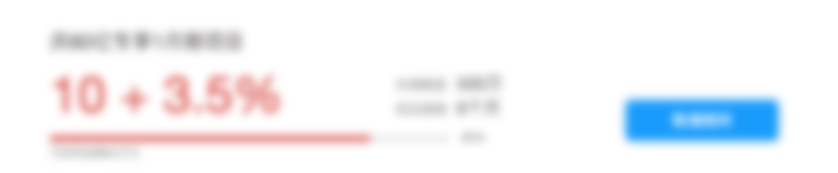
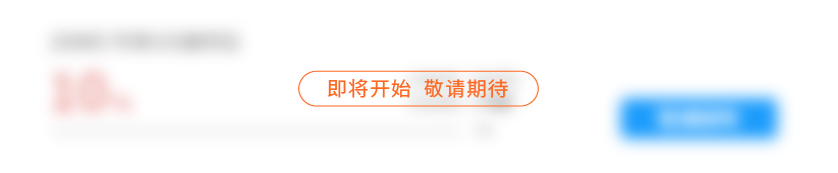
提交60亿活动

diff --git a/static/styles/mobile_activity/app_six_billion.css b/static/styles/mobile_activity/app_six_billion.css
@@ -1,1 +1,1 @@
-.clear{clear:both}.body_wrap{width:100%;font-size:0;overflow:hidden;max-height:9999rem}.body_wrap .section{position:relative;width:100%;display:inline-block}.body_wrap .banner_img{width:100%;display:block}.body_wrap .section_1 .sum_num{width:100%;text-align:center;position:absolute;top:74.5%;left:0;z-index:2;color:#fff;font-size:1.5rem;line-height:1.875rem}@media screen and (max-device-width: 370px){.body_wrap .section_1 .sum_num{top:73%;font-size:1.35rem}}@media screen and (max-width: 370px){.body_wrap .section_1 .sum_num{font-size:1.35rem;top:73%}}.body_wrap .section_2{background:url("/static/imgs/mobile_activity/app_six_billion/banner_bg_2.jpg") no-repeat center center;background-size:100% 100%}.body_wrap .section_2 .banner_img{width:100%;display:block;padding:1rem 0 0.375rem}.body_wrap .section_2 .act_time{width:100%;text-align:center;color:#fff;font-size:0.6rem;line-height:1rem;padding-top:0.45rem}.body_wrap .section_2 .brand_wrap{width:100%;padding:0 2.5%;display:inline-block}.body_wrap .section_2 .brand_wrap .brand_box{background:#fff;display:block;float:left;width:31%;border-radius:0.375rem;position:relative;box-shadow:0 0.125rem 0.375rem #666;margin-top:0.75rem}.body_wrap .section_2 .brand_wrap .brand_box .title_text{width:90%;color:#ffb03d;font-size:0.375rem;line-height:0.6rem;padding:0.9rem 0 0.2rem;margin:0 auto;display:block;text-align:center;border-bottom:1px #ffd69a solid}@media screen and (max-device-width: 370px){.body_wrap .section_2 .brand_wrap .brand_box .title_text{padding:0.9rem 5% 0.375rem}}@media screen and (max-width: 370px){.body_wrap .section_2 .brand_wrap .brand_box .title_text{padding:0.9rem 5% 0.375rem}}.body_wrap .section_2 .brand_wrap .brand_box .send_text{position:absolute;left:10%;top:2.15rem;font-size:0.375rem;line-height:0.55rem;color:#ffa41d}.body_wrap .section_2 .brand_wrap .brand_box .add_num{padding-top:0.55rem;width:100%;text-align:center;line-height:1.75rem;color:#ffa41d;font-size:1.75rem;position:relative;left:0.3rem;top:0}.body_wrap .section_2 .brand_wrap .brand_box .add_num span{font-size:0.6rem}.body_wrap .section_2 .brand_wrap .brand_box .goods_text{width:100%;font-size:0.45rem;line-height:0.6rem;color:#ffa41d;text-align:center}.body_wrap .section_2 .brand_wrap .brand_box .use_text_1{width:54%;line-height:0.75rem;margin:0.35rem auto 0.2rem;display:block;color:#ffa319;font-size:0.45rem;text-align:center;border:1px #ffa319 solid;border-radius:0.375rem}.body_wrap .section_2 .brand_wrap .brand_box .use_text_2{width:100%;text-align:center;line-height:0.5rem;font-size:0.35rem;padding-bottom:0.4rem;color:#ffa319}.body_wrap .section_2 .brand_wrap .brand_box_2{margin-left:3.5%}.body_wrap .section_2 .brand_wrap .brand_box_3{float:right}.body_wrap .section_2 .brand_wrap .brand_box_4{margin-left:18%}.body_wrap .section_2 .brand_wrap .brand_box_5{margin-left:7.5%}.body_wrap .section_2 .prompt_wrap{width:90%;margin:0 auto;display:block;font-size:0.6rem;line-height:1rem;color:#fff;padding:1.3rem 0 2.25rem;max-height:9999rem}.body_wrap .section_3{background:url("/static/imgs/mobile_activity/app_six_billion/banner_bg_3.jpg") no-repeat center center;background-size:100% 100%}.body_wrap .section_3 .banner_img{width:100%;display:block;padding:0.95rem 0 0.75rem}.body_wrap .section_3 .act_time{font-size:0.6rem;line-height:0.75rem;color:#dec7f7;text-align:center;padding-bottom:1rem}.body_wrap .section_3 .prompt_wrap{width:88%;margin:0 auto;display:block;font-size:0.6rem;line-height:1rem;color:#c9a8fd;padding:0.625rem 0 1rem;max-height:9999rem}.body_wrap .section .swiper_main{width:80%;position:relative;box-shadow:0 0.5rem 1.5rem #2c72d7;border-radius:0.3rem;text-align:center;background:#fff;margin:0 auto;padding-bottom:0.75rem;overflow:hidden}.body_wrap .section .swiper_main .meng_layer{width:100%;position:absolute;left:0;top:0;background-image:url("/static/imgs/mobile_activity/app_six_billion/meng_layer.png");background-repeat:no-repeat;background-position:center center;background-color:#fff;z-index:2;height:100%;border-radius:0.3rem}.body_wrap .section .swiper-container{margin:0 auto}.body_wrap .section .swiper-slide{width:75%;display:-webkit-box;display:-ms-flexbox;display:-webkit-flex;display:flex;-webkit-box-pack:center;-ms-flex-pack:center;-webkit-justify-content:center;justify-content:center;-webkit-box-align:center;-ms-flex-align:center;-webkit-align-items:center;align-items:center}.body_wrap .section .first_slide{left:2%}.body_wrap .section .swiper-pagination{display:block;bottom:1.45rem;left:0;width:100%}.body_wrap .section .title_text{font-size:0.75rem;text-align:center;color:#3d3a39;line-height:0.95rem;padding:1.1rem 0 0.8rem}.body_wrap .section .interest_rate{font-size:1.95rem;color:#d94a44;line-height:2.625rem;text-align:center;width:100%;position:relative;padding-top:0.8rem}.body_wrap .section .interest_rate span{font-size:0.75rem}.body_wrap .section .interest_rate span.small_text{position:relative;top:-0.4rem;left:0.25rem}.body_wrap .section .interest_rate .num_2{display:inline-block;position:relative}.body_wrap .section .interest_rate .increase_box{position:absolute;left:-25%;top:-0.8rem;display:inline}.body_wrap .section .interest_rate .increase_box .increase_text{position:relative;padding:0 0.5rem;display:block;height:0.6rem;color:#fff;line-height:0.6rem;text-align:center;background:#ff8400;font-size:0.375rem;box-radius:0.2rem}.body_wrap .section .interest_rate .increase_box .increase_text span{position:absolute;left:50%;bottom:-0.2rem;margin-left:-0.175rem;width:0.35rem;height:0.2rem;display:block;background:url("/static/imgs/mobile_activity/app_six_billion/triangle_down.png") no-repeat center center}.body_wrap .section .time_money{width:100%;padding:0 12%;height:2.05rem}.body_wrap .section .time_money .time_left{width:49%;float:left;text-align:center}.body_wrap .section .time_money .p_top{font-size:1rem;color:#585757;line-height:1.125rem;letter-spacing:1px}@media screen and (max-device-width: 370px){.body_wrap .section .time_money .p_top{font-size:0.7rem}}@media screen and (max-width: 370px){.body_wrap .section .time_money .p_top{font-size:0.7rem}}.body_wrap .section .time_money .p_b{font-size:0.55rem;color:#939494;line-height:0.8rem}@media screen and (max-device-width: 370px){.body_wrap .section .time_money .p_b{font-size:0.45rem}}@media screen and (max-width: 370px){.body_wrap .section .time_money .p_b{font-size:0.45rem}}.body_wrap .section .time_money .border_left{border-left:1px solid #ebebeb;height:1.7rem;display:inline-block;float:left;position:relative;top:0.175rem;left:0}.body_wrap .section .time_money .money_right{width:49%;float:left;text-align:right}.body_wrap .section .progress_bar{padding:0.3rem 12.5% 0.6rem;height:1.55rem}.body_wrap .section .progress_bar .progress_bar_box{float:left;width:80%;padding-top:0.15rem}.body_wrap .section .progress_bar .progress_bar_box .progress_bar_left{height:0.15rem;background:#e3e3e3;position:relative}.body_wrap .section .progress_bar .progress_bar_box .progress_bar_left span{background:#f25a46;display:inline-block;height:0.15rem;position:absolute;left:0;top:0}.body_wrap .section .progress_bar .progress_bar_box .available_amount{color:#939494;font-size:0.425rem;text-align:left;line-height:0.5rem;padding-top:0.125rem}.body_wrap .section .progress_bar .progress_bar_right{color:gray;font-size:0.425rem;float:right}.body_wrap .section .button_buy{width:55%;height:1.5rem;display:block;clear:both;margin:0.6rem auto 0.75rem;color:#fff;font-size:0.8rem;text-align:center;line-height:1.5rem;border-radius:0.375rem;cursor:pointer}.body_wrap .section .orange_button{background:#fc6722;box-shadow:0 0 0.125rem #fc6722}.body_wrap .section .blue_button{background:#199bfc;box-shadow:0 0 0.125rem #199bfc}.body_wrap .section .gray_button{background:#a9a9aa;box-shadow:0 0 0.125rem #a9a9aa}.body_wrap .section .pagination{margin-top:1rem;position:relative;text-align:center;bottom:0}.body_wrap .section .swiper-pagination-bullet{width:0.35rem;height:0.35rem;background:#ebeded;border-radius:50%;margin:0 0.15rem;opacity:1}.body_wrap .section .swiper-pagination-bullet-active{width:0.35rem;height:0.35rem;background:#d94a44;border-radius:0.35rem;margin:0 0.15rem;opacity:1}.body_wrap .section .swiper-container-horizontal>.swiper-pagination .swiper-pagination-bullet{margin:0 0.2rem}.body_wrap .section_4{background:url("/static/imgs/mobile_activity/app_six_billion/banner_bg_4.jpg") no-repeat center center;background-size:100% 100%}.body_wrap .section_4 .banner_img{width:100%;display:block;padding:1.25rem 0 0.2rem}.body_wrap .section_4 .act_time{width:100%;text-align:center;color:#c8e2fe;font-size:0.6rem;line-height:0.75rem;padding-top:0.4rem}.body_wrap .section_4 .countdown_wrap{width:100%;text-align:center;padding-top:0.5rem}.body_wrap .section_4 .countdown_wrap .time_wrap{display:inline-block;font-size:1.05rem;line-height:1.4rem;color:#fff}.body_wrap .section_4 .countdown_wrap .time_wrap span{width:1rem;height:1.4rem;float:left;display:block}.body_wrap .section_4 .countdown_wrap .time_wrap .title_text{display:inline-block;font-size:0.6rem;line-height:1.4rem;color:#c8e2fe;width:auto;padding:0}.body_wrap .section_4 .countdown_wrap .time_wrap .time_1{background:url("/static/imgs/mobile_activity/app_six_billion/time_bg_1.png") no-repeat center center;background-size:100% 100%}.body_wrap .section_4 .countdown_wrap .time_wrap .time_2{background:url("/static/imgs/mobile_activity/app_six_billion/time_bg_2.png") no-repeat center center;background-size:100% 100%}.body_wrap .section_4 .countdown_wrap .time_wrap .time_3{background:url("/static/imgs/mobile_activity/app_six_billion/time_bg_3.png") no-repeat center center;background-size:100% 100%;width:0.475rem}.body_wrap .section_4 .act_text{width:100%;text-align:center;color:#c8e2fe;font-size:0.6rem;line-height:1rem;padding:0.5rem 0 0.55rem}.body_wrap .section_4 .prompt_wrap{width:90%;margin:0 auto;display:block;font-size:0.6rem;line-height:1rem;color:#c8e2fe;padding:0.4rem 0 1.3rem;max-height:9999rem}.body_wrap .section_5{background:url("/static/imgs/mobile_activity/app_six_billion/banner_bg_5.jpg") no-repeat center center;background-size:100% 100%}.body_wrap .section_5 .banner_img{width:100%;display:block;padding:1.05rem 0 0.5rem}.body_wrap .section_5 .act_time{width:100%;text-align:center;color:#ffa6b3;font-size:0.6rem;line-height:0.75rem;padding-bottom:0.2rem;max-height:9999rem}.body_wrap .section_5 .act_text_1{border:1px #fb8c97 solid;border-radius:0.35rem;line-height:0.8rem;font-size:0.6rem;color:#ffa6b3;display:block;margin:0 auto;text-align:center;width:80%;max-height:9999rem}@media screen and (max-device-width: 370px){.body_wrap .section_5 .act_text_1{width:90%}}@media screen and (max-width: 370px){.body_wrap .section_5 .act_text_1{width:90%}}.body_wrap .section_5 .act_text_2{line-height:1.05rem;font-size:0.6rem;color:#ffa6b3;display:block;margin:0 auto;text-align:left;text-indent:2rem;width:88%;padding:0.75rem 0 1.2rem;max-height:9999rem}.body_wrap .section_5 .act_text_2 span{color:#fff}.body_wrap .section_5 .swiper-slide{width:100%}.body_wrap .section_5 .swiper-slide .swiper_main{width:85%;background:#fef5ee;display:block;margin:0 auto;box-shadow:0 0.5rem 1.5rem #c11e2a}.body_wrap .section_5 .swiper-slide .swiper_main .title_main{width:100%;font-size:0.8rem;line-height:1rem;padding:1.4rem 0 0.75rem;text-align:center;color:#a62c00}.body_wrap .section_5 .swiper-slide .swiper_main img{width:31%;display:block;margin:0 auto}.body_wrap .section_5 .swiper-slide .swiper_main .user_text{font-size:0.8rem;line-height:1rem;padding:0.6rem 0;color:#666;width:87.5%;display:block;margin:0 auto;text-align:left;height:24rem}@media screen and (max-device-width: 370px){.body_wrap .section_5 .swiper-slide .swiper_main .user_text{height:28rem}}@media screen and (max-width: 370px){.body_wrap .section_5 .swiper-slide .swiper_main .user_text{height:28rem}}.body_wrap .section_5 .swiper-pagination-bullet-active{background:red}.body_wrap .section_5 .swiper_waper{padding-bottom:0.65rem;left:0}.body_wrap .section_5 .prompt_wrap{width:90%;margin:0 auto;display:block;font-size:0.6rem;line-height:1rem;color:#fff;padding:0.4rem 0 1.3rem;max-height:999rem;text-align:center}
+.clear{clear:both}.body_wrap{width:100%;font-size:0;overflow:hidden;max-height:9999rem}.body_wrap .section{position:relative;width:100%;display:inline-block}.body_wrap .banner_img{width:100%;display:block}.body_wrap .section_1 .sum_num{width:100%;text-align:center;position:absolute;top:74.5%;left:0;z-index:2;color:#fff;font-size:1.5rem;line-height:1.875rem}@media screen and (max-device-width: 370px){.body_wrap .section_1 .sum_num{top:73%;font-size:1.35rem}}@media screen and (max-width: 370px){.body_wrap .section_1 .sum_num{font-size:1.35rem;top:73%}}.body_wrap .section_1 .sum_num .act_text{font-size:0.45rem;line-height:1.2rem;margin-left:17%;text-align:left;opacity:0.5;position:relative;top:-0.3rem}.body_wrap .section_2{background:url("/static/imgs/mobile_activity/app_six_billion/banner_bg_2.jpg") no-repeat center center;background-size:100% 100%}.body_wrap .section_2 .banner_img{width:100%;display:block;padding:1rem 0 0.375rem}.body_wrap .section_2 .act_time{width:100%;text-align:center;color:#fff;font-size:0.6rem;line-height:1rem;padding-top:0.45rem}.body_wrap .section_2 .brand_wrap{width:100%;padding:0 2.5%;display:inline-block}.body_wrap .section_2 .brand_wrap .brand_box{background:#fff;display:block;float:left;width:31%;border-radius:0.375rem;position:relative;box-shadow:0 0.125rem 0.375rem #666;margin-top:0.75rem}.body_wrap .section_2 .brand_wrap .brand_box .title_text{width:90%;color:#ffb03d;font-size:0.375rem;line-height:0.6rem;padding:0.9rem 0 0.2rem;margin:0 auto;display:block;text-align:center;border-bottom:1px #ffd69a solid}@media screen and (max-device-width: 370px){.body_wrap .section_2 .brand_wrap .brand_box .title_text{padding:0.9rem 5% 0.375rem}}@media screen and (max-width: 370px){.body_wrap .section_2 .brand_wrap .brand_box .title_text{padding:0.9rem 5% 0.375rem}}.body_wrap .section_2 .brand_wrap .brand_box .send_text{position:absolute;left:10%;top:2.15rem;font-size:0.375rem;line-height:0.55rem;color:#ffa41d}.body_wrap .section_2 .brand_wrap .brand_box .add_num{padding-top:0.55rem;width:100%;text-align:center;line-height:1.75rem;color:#ffa41d;font-size:1.75rem;position:relative;left:0.3rem;top:0}.body_wrap .section_2 .brand_wrap .brand_box .add_num span{font-size:0.6rem}.body_wrap .section_2 .brand_wrap .brand_box .goods_text{width:100%;font-size:0.45rem;line-height:0.6rem;color:#ffa41d;text-align:center}.body_wrap .section_2 .brand_wrap .brand_box .use_text_1{width:54%;line-height:0.75rem;margin:0.35rem auto 0.2rem;display:block;color:#ffa319;font-size:0.45rem;text-align:center;border:1px #ffa319 solid;border-radius:0.375rem}.body_wrap .section_2 .brand_wrap .brand_box .use_text_2{width:100%;text-align:center;line-height:0.5rem;font-size:0.35rem;padding-bottom:0.4rem;color:#ffa319}.body_wrap .section_2 .brand_wrap .brand_box_2{margin-left:3.5%}.body_wrap .section_2 .brand_wrap .brand_box_3{float:right}.body_wrap .section_2 .brand_wrap .brand_box_4{margin-left:18%}.body_wrap .section_2 .brand_wrap .brand_box_5{margin-left:7.5%}.body_wrap .section_2 .prompt_wrap{width:90%;margin:0 auto;display:block;font-size:0.6rem;line-height:1rem;color:#fff;padding:1.3rem 0 2.25rem;max-height:9999rem}.body_wrap .section_3{background:url("/static/imgs/mobile_activity/app_six_billion/banner_bg_3.jpg") no-repeat center center;background-size:100% 100%}.body_wrap .section_3 .banner_img{width:100%;display:block;padding:0.95rem 0 0.75rem}.body_wrap .section_3 .act_time{font-size:0.6rem;line-height:0.75rem;color:#dec7f7;text-align:center;padding-bottom:1rem}.body_wrap .section_3 .prompt_wrap{width:88%;margin:0 auto;display:block;font-size:0.6rem;line-height:1rem;color:#c9a8fd;padding:0.625rem 0 1rem;max-height:9999rem}.body_wrap .section .swiper_main{width:80%;position:relative;box-shadow:0 0.5rem 1.5rem #2c72d7;border-radius:0.3rem;text-align:center;background:#fff;margin:0 auto;padding-bottom:0.75rem;overflow:hidden}.body_wrap .section .swiper_main .meng_layer{width:100%;position:absolute;left:0;top:0;background-image:url("/static/imgs/mobile_activity/app_six_billion/meng_layer.png");background-repeat:no-repeat;background-position:center center;background-color:#fff;z-index:2;height:100%;border-radius:0.3rem}.body_wrap .section .swiper-container{margin:0 auto}.body_wrap .section .swiper-slide{width:75%;display:-webkit-box;display:-ms-flexbox;display:-webkit-flex;display:flex;-webkit-box-pack:center;-ms-flex-pack:center;-webkit-justify-content:center;justify-content:center;-webkit-box-align:center;-ms-flex-align:center;-webkit-align-items:center;align-items:center}.body_wrap .section .first_slide{left:2%}.body_wrap .section .second_slide{left:2%}.body_wrap .section .swiper-pagination{display:block;bottom:1.45rem;left:0;width:100%}.body_wrap .section .title_text{font-size:0.75rem;text-align:center;color:#3d3a39;line-height:0.95rem;padding:1.1rem 0 0.8rem}.body_wrap .section .interest_rate{font-size:1.95rem;color:#d94a44;line-height:2.625rem;text-align:center;width:100%;position:relative;padding-top:0.8rem}.body_wrap .section .interest_rate span{font-size:0.75rem}.body_wrap .section .interest_rate span.small_text{position:relative;top:-0.4rem;left:0.25rem}.body_wrap .section .interest_rate .num_2{display:inline-block;position:relative}.body_wrap .section .interest_rate .increase_box{position:absolute;left:-25%;top:-0.8rem;display:inline}.body_wrap .section .interest_rate .increase_box .increase_text{position:relative;padding:0 0.5rem;display:block;height:0.6rem;color:#fff;line-height:0.6rem;text-align:center;background:#ff8400;font-size:0.375rem;box-radius:0.2rem}.body_wrap .section .interest_rate .increase_box .increase_text span{position:absolute;left:50%;bottom:-0.2rem;margin-left:-0.175rem;width:0.35rem;height:0.2rem;display:block;background:url("/static/imgs/mobile_activity/app_six_billion/triangle_down.png") no-repeat center center}.body_wrap .section .time_money{width:100%;padding:0 12%;height:2.05rem}.body_wrap .section .time_money .time_left{width:49%;float:left;text-align:center}.body_wrap .section .time_money .p_top{font-size:1rem;color:#585757;line-height:1.125rem;letter-spacing:1px}@media screen and (max-device-width: 370px){.body_wrap .section .time_money .p_top{font-size:0.7rem}}@media screen and (max-width: 370px){.body_wrap .section .time_money .p_top{font-size:0.7rem}}.body_wrap .section .time_money .p_b{font-size:0.55rem;color:#939494;line-height:0.8rem}@media screen and (max-device-width: 370px){.body_wrap .section .time_money .p_b{font-size:0.45rem}}@media screen and (max-width: 370px){.body_wrap .section .time_money .p_b{font-size:0.45rem}}.body_wrap .section .time_money .border_left{border-left:1px solid #ebebeb;height:1.7rem;display:inline-block;float:left;position:relative;top:0.175rem;left:0}.body_wrap .section .time_money .money_right{width:49%;float:left;text-align:right}.body_wrap .section .progress_bar{padding:0.3rem 12.5% 0.6rem;height:1.55rem}.body_wrap .section .progress_bar .progress_bar_box{float:left;width:80%;padding-top:0.15rem}.body_wrap .section .progress_bar .progress_bar_box .progress_bar_left{height:0.15rem;background:#e3e3e3;position:relative}.body_wrap .section .progress_bar .progress_bar_box .progress_bar_left span{background:#f25a46;display:inline-block;height:0.15rem;position:absolute;left:0;top:0}.body_wrap .section .progress_bar .progress_bar_box .available_amount{color:#939494;font-size:0.425rem;text-align:left;line-height:0.5rem;padding-top:0.125rem}.body_wrap .section .progress_bar .progress_bar_right{color:gray;font-size:0.425rem;float:right}.body_wrap .section .button_buy{width:55%;height:1.5rem;display:block;clear:both;margin:0.6rem auto 0.75rem;color:#fff;font-size:0.8rem;text-align:center;line-height:1.5rem;border-radius:0.375rem;cursor:pointer}.body_wrap .section .orange_button{background:#fc6722;box-shadow:0 0 0.125rem #fc6722}.body_wrap .section .blue_button{background:#199bfc;box-shadow:0 0 0.125rem #199bfc}.body_wrap .section .gray_button{background:#a9a9aa;box-shadow:0 0 0.125rem #a9a9aa}.body_wrap .section .pagination{margin-top:1rem;position:relative;text-align:center;bottom:0}.body_wrap .section .swiper-pagination-bullet{width:0.35rem;height:0.35rem;background:#ebeded;border-radius:50%;margin:0 0.15rem;opacity:1}.body_wrap .section .swiper-pagination-bullet-active{width:0.35rem;height:0.35rem;background:#d94a44;border-radius:0.35rem;margin:0 0.15rem;opacity:1}.body_wrap .section .swiper-container-horizontal>.swiper-pagination .swiper-pagination-bullet{margin:0 0.2rem}.body_wrap .section_4{background:url("/static/imgs/mobile_activity/app_six_billion/banner_bg_4.jpg") no-repeat center center;background-size:100% 100%}.body_wrap .section_4 .banner_img{width:100%;display:block;padding:1.25rem 0 0.2rem}.body_wrap .section_4 .act_time{width:100%;text-align:center;color:#c8e2fe;font-size:0.6rem;line-height:0.75rem;padding-top:0.4rem}.body_wrap .section_4 .countdown_wrap{width:100%;text-align:center;padding-top:0.5rem}.body_wrap .section_4 .countdown_wrap .time_wrap{display:inline-block;font-size:1.05rem;line-height:1.4rem;color:#fff}.body_wrap .section_4 .countdown_wrap .time_wrap span{width:1rem;height:1.4rem;float:left;display:block}.body_wrap .section_4 .countdown_wrap .time_wrap .title_text{display:inline-block;font-size:0.6rem;line-height:1.4rem;color:#c8e2fe;width:auto;padding:0}.body_wrap .section_4 .countdown_wrap .time_wrap .time_1{background:url("/static/imgs/mobile_activity/app_six_billion/time_bg_1.png") no-repeat center center;background-size:100% 100%}.body_wrap .section_4 .countdown_wrap .time_wrap .time_2{background:url("/static/imgs/mobile_activity/app_six_billion/time_bg_2.png") no-repeat center center;background-size:100% 100%}.body_wrap .section_4 .countdown_wrap .time_wrap .time_3{background:url("/static/imgs/mobile_activity/app_six_billion/time_bg_3.png") no-repeat center center;background-size:100% 100%;width:0.475rem}.body_wrap .section_4 .act_text{width:100%;text-align:center;color:#c8e2fe;font-size:0.6rem;line-height:1rem;padding:0.5rem 0 0.55rem}.body_wrap .section_4 .prompt_wrap{width:90%;margin:0 auto;display:block;font-size:0.6rem;line-height:1rem;color:#c8e2fe;padding:0.4rem 0 1.3rem;max-height:9999rem}.body_wrap .section_5{background:url("/static/imgs/mobile_activity/app_six_billion/banner_bg_5.jpg") no-repeat center center;background-size:100% 100%}.body_wrap .section_5 .banner_img{width:100%;display:block;padding:1.05rem 0 0.5rem}.body_wrap .section_5 .act_time{width:100%;text-align:center;color:#ffa6b3;font-size:0.6rem;line-height:0.75rem;padding-bottom:0.2rem;max-height:9999rem}.body_wrap .section_5 .act_text_1{border:1px #fb8c97 solid;border-radius:0.35rem;line-height:0.8rem;font-size:0.6rem;color:#ffa6b3;display:block;margin:0 auto;text-align:center;width:80%;max-height:9999rem}@media screen and (max-device-width: 370px){.body_wrap .section_5 .act_text_1{width:90%}}@media screen and (max-width: 370px){.body_wrap .section_5 .act_text_1{width:90%}}.body_wrap .section_5 .act_text_2{line-height:1.05rem;font-size:0.6rem;color:#ffa6b3;display:block;margin:0 auto;text-align:left;text-indent:2rem;width:88%;padding:0.75rem 0 1.2rem;max-height:9999rem}.body_wrap .section_5 .act_text_2 span{color:#fff}.body_wrap .section_5 .swiper-slide{width:100%}.body_wrap .section_5 .swiper-slide .swiper_main{width:85%;background:#fef5ee;display:block;margin:0 auto;box-shadow:0 0.5rem 1.5rem #c11e2a}.body_wrap .section_5 .swiper-slide .swiper_main .title_main{width:100%;font-size:0.8rem;line-height:1rem;padding:1.4rem 0 0.75rem;text-align:center;color:#a62c00}.body_wrap .section_5 .swiper-slide .swiper_main img{width:31%;display:block;margin:0 auto}.body_wrap .section_5 .swiper-slide .swiper_main .user_text{font-size:0.8rem;line-height:1rem;padding:0.6rem 0;color:#666;width:87.5%;display:block;margin:0 auto;text-align:left;height:24rem}@media screen and (max-device-width: 370px){.body_wrap .section_5 .swiper-slide .swiper_main .user_text{height:28rem}}@media screen and (max-width: 370px){.body_wrap .section_5 .swiper-slide .swiper_main .user_text{height:28rem}}.body_wrap .section_5 .swiper-pagination-bullet-active{background:red}.body_wrap .section_5 .swiper_waper{padding-bottom:0.65rem;left:0}.body_wrap .section_5 .prompt_wrap{width:90%;margin:0 auto;display:block;font-size:0.6rem;line-height:1rem;color:#fff;padding:0.4rem 0 1.3rem;max-height:999rem;text-align:center}

diff --git a/static/scss/mobile_activity/app_six_billion.sass b/static/scss/mobile_activity/app_six_billion.sass
@@ -32,6 +32,15 @@
       @media screen and (max-width: 370px)
         font-size: 1.35rem
         top: 73%
+      .act_text
+        font-size: 0.45rem
+        line-height: 1.2rem
+        margin-left: 17%
+        text-align: left
+        opacity: 0.5
+        position: relative
+        top: -0.3rem
+
   .section_2
     background: url("/static/imgs/mobile_activity/app_six_billion/banner_bg_2.jpg") no-repeat center center
     background-size: 100% 100%
@@ -211,6 +220,8 @@
       -webkit-align-items: center
       align-items: center
     .first_slide
+      left: 2%
+    .second_slide
       left: 2%
     .swiper-pagination
 
